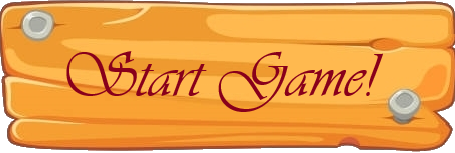
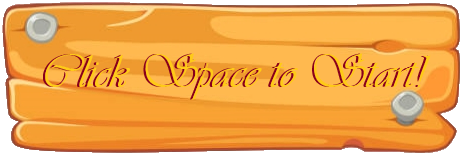
button functions

diff --git a/sketch.js b/sketch.js
@@ -7,15 +7,11 @@ let state = "start";
 let startBackImg;
 let optionBackImg;
 let startButtonImg;
-let startButtonHoverImg;
-let cursorImg;
 
 function preload() {
   startBackImg = loadImage("startPageBackground.jpg");
   optionBackImg = loadImage("optionsBackground.jpg");
   startButtonImg = loadImage("startButton.png");
-  startButtonHoverImg = loadImage("startButtonHover.png");
-  cursorImg = loadImage("cursor.png");
 }
 
 function setup() {
@@ -27,9 +23,7 @@ function draw() {
   if (state === "start") {
     startScreen();
   }
-  if (state === "main") {
-    image(optionBackImg, 0, 0, width, height);
-  }
+  if (keyCode(32))
 }
 
 function startScreen() {
@@ -45,21 +39,13 @@ function startState() {
     startScreen();
   }
   if (state === "main") {
-    image(optionBackImg, 0, 0, width, height);
+    mainScreen;
   }
 }
 
-function mouseTouching(startButtonImg) {
-  let startButtonHoverX = windowWidth * 0.33;
-  let startButtonHoverY = windowHeight * 0.75;
-  image(startButtonHoverImg, startButtonHoverX, startButtonHoverY, width * 0.35, height * 0.2);
+function mainScreen() {
+  image(optionBackImg, 0, 0, width, height);
 }
-
-// function mouseTouching() {
-//     if (mouseX && mouseY === ) {
-//         image(startButtonImg,)
-//     }
-// }
 
 // //tic tac toe
 // // Tic Tac Toe
